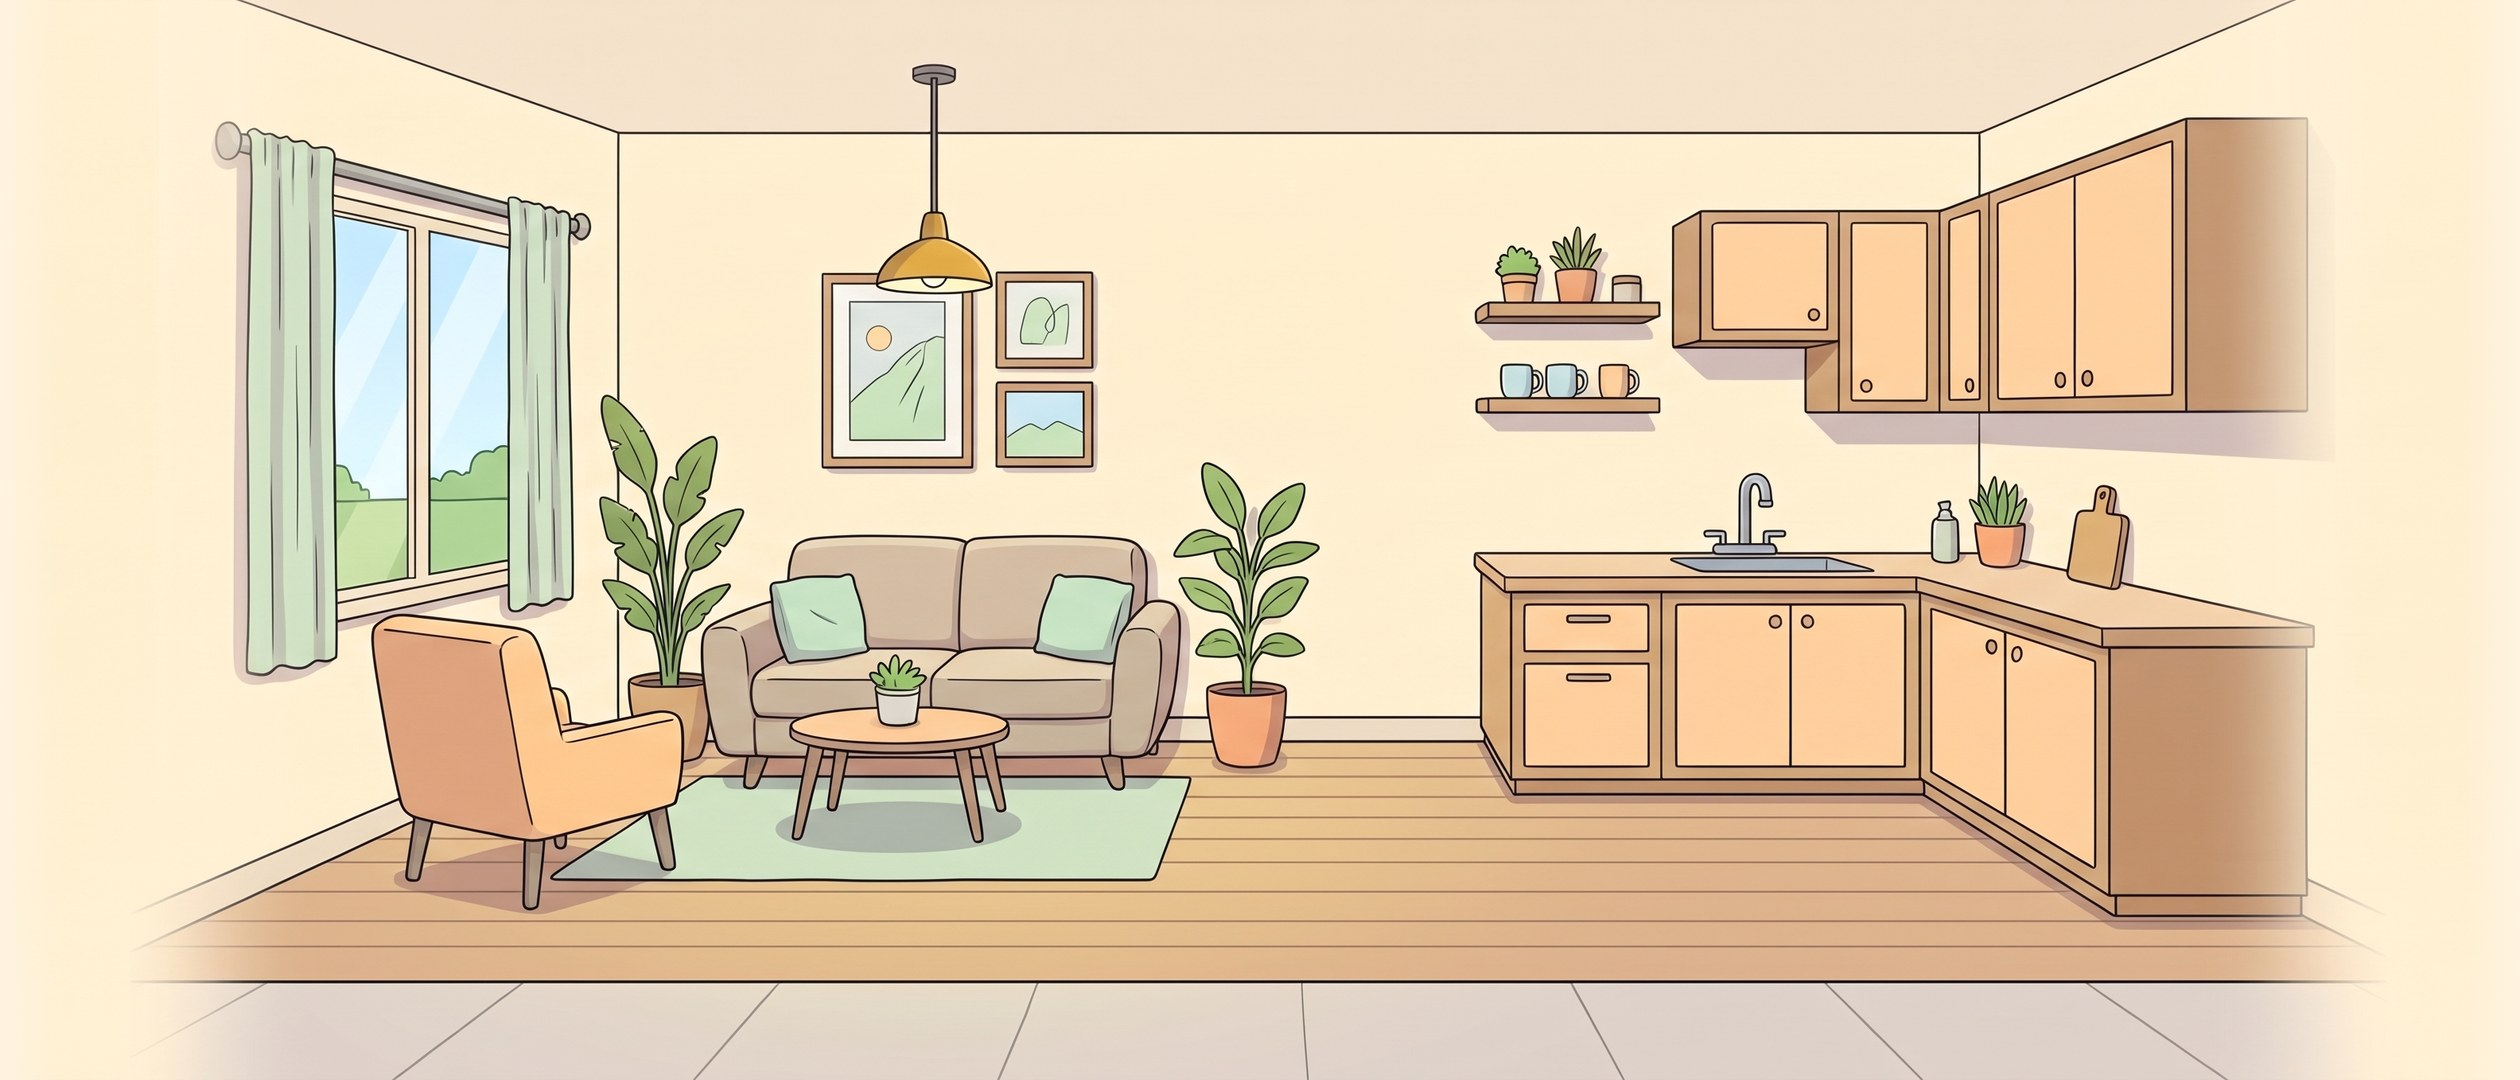
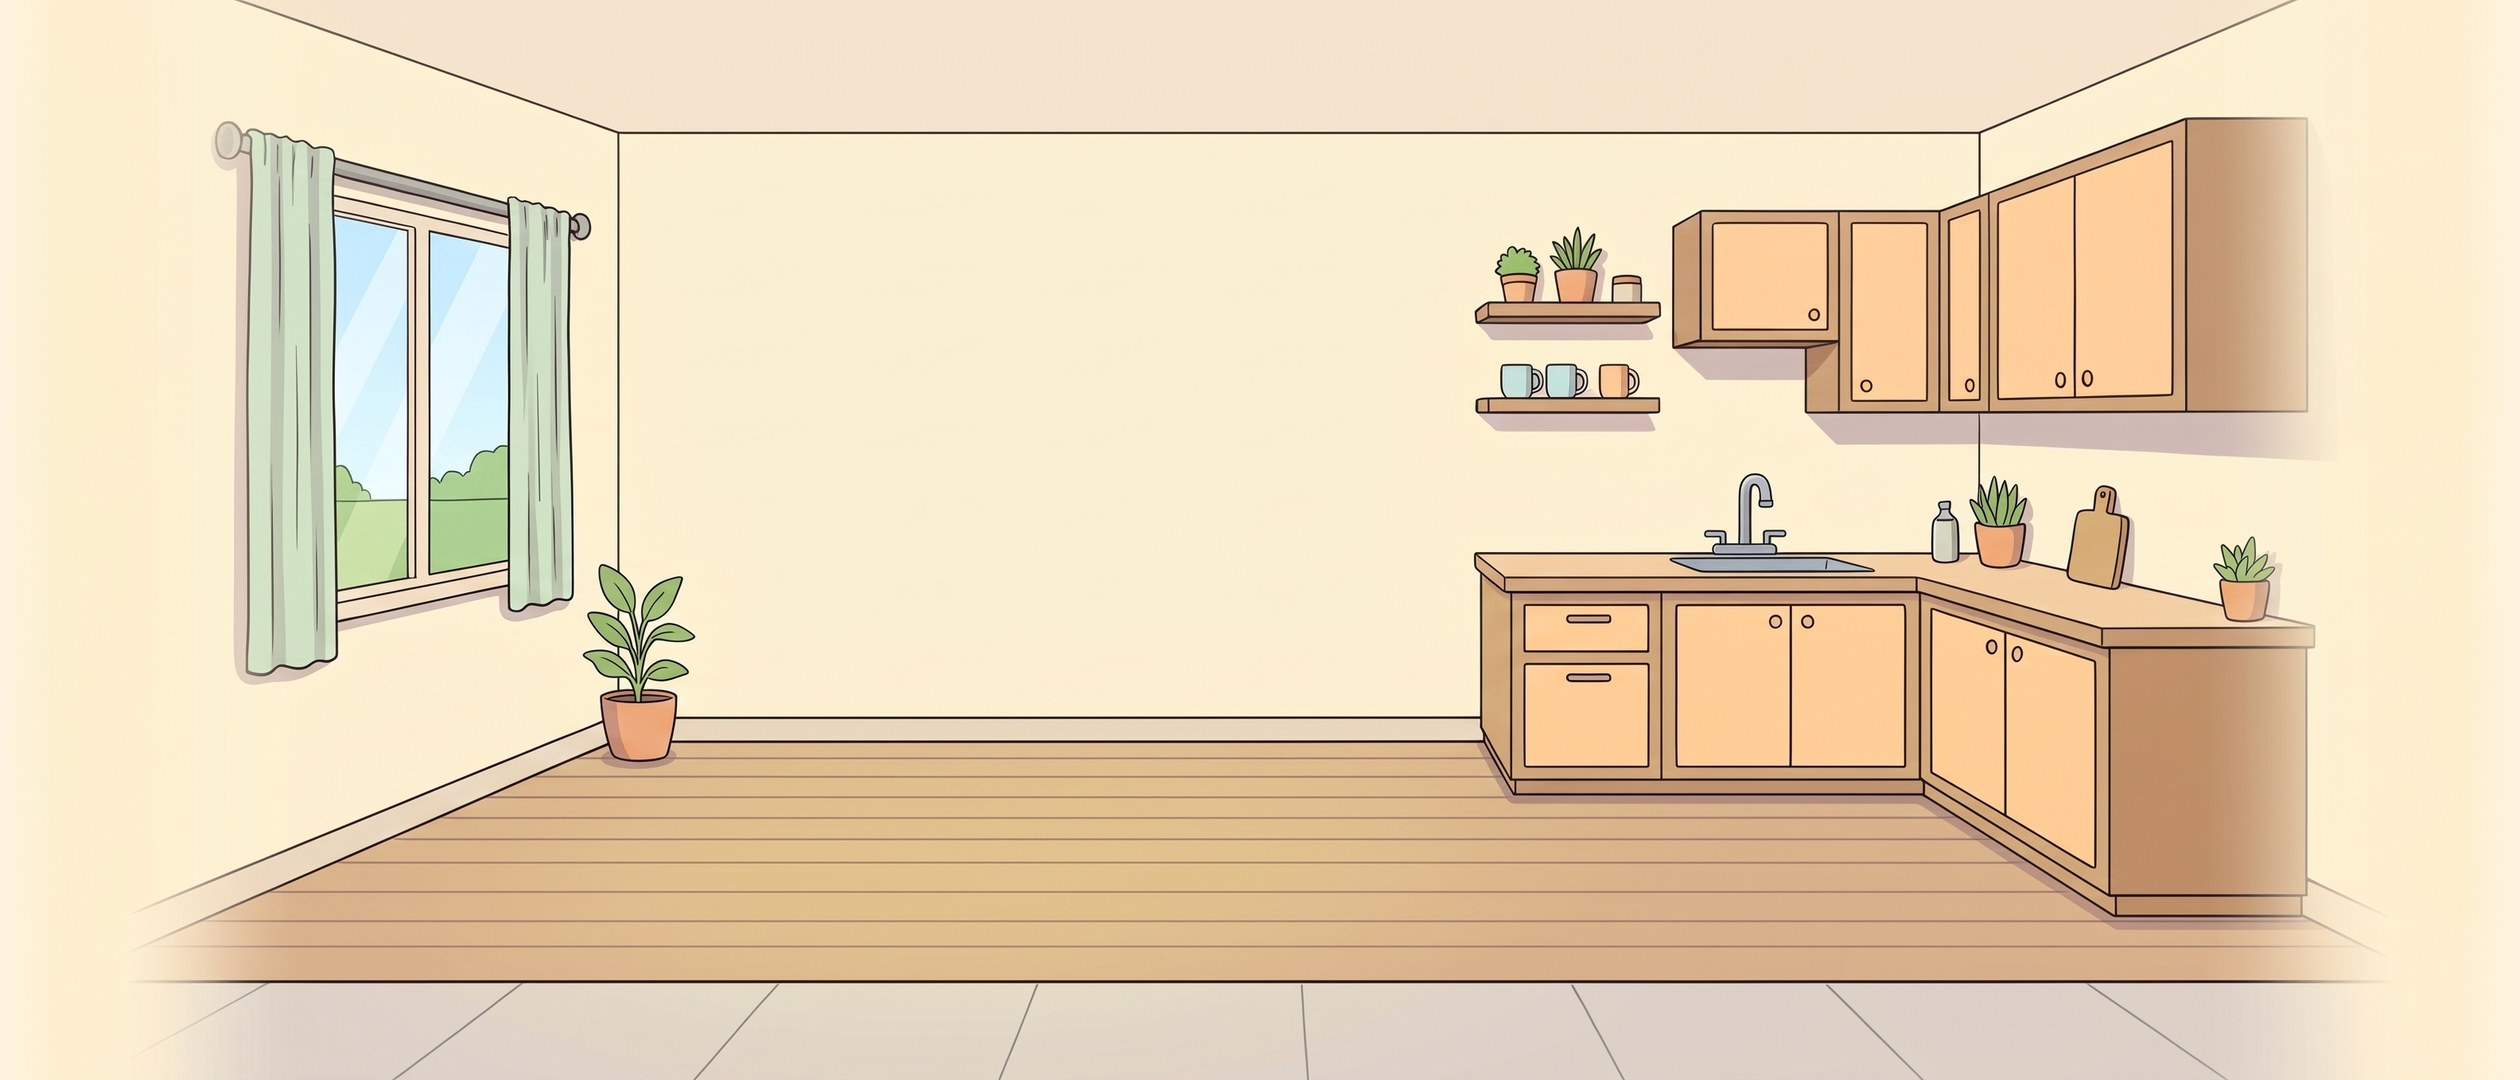
Regenerate t2_c, t3_a, t4_c backgrounds with empty centre
Claude-Session: https://claude.ai/code/session_01KrbBj8WGS3ZAeF2uCMmBCC

diff --git a/docs/PENNY_LOGICS_RULES.md b/docs/PENNY_LOGICS_RULES.md
@@ -292,7 +292,7 @@ HyperFrames (heygen-com/hyperframes) berlisensi Apache 2.0. Idenya ditulis ulang
 ## 10. Status per video
 **Video 01** (How Credit Card Companies Make Money Off You): kode `src/video01/` (rebuild V2, commit 3899ae4, render V1-Full oleh Antigravity 30 Okt).
 - Revisi tercatat 31 Okt (belum dikerjakan): sting Penny Logics setelah Hook (post hook 0.4 → 1.6); hapus kartu judul (pre = 0, titleAudio kosong, TitleCard dimatikan di ChapterShell1, ducking musik disesuaikan); susun ulang dengan World/CameraPath/Carry; durasi sekitar 4:54, chapter dan .srt dihitung ulang.
-**Video 01: latar panorama (16 potongan, SUDAH digenerate 31 Okt, ada di `public/v1/bg/`).** Dibuat di Gemini (akun genshin impacto) dengan prompt di bawah; hasil diubah ke 2520x1080 dengan tepi kiri/kanan memudar ke krem. Catatan: t2_c punya sofa di tengah, t3_a dan t4_c sedikit berperspektif; t2_a dan t4_a sengaja kosong di kiri; papan menu hook_a sudah dikosongkan.
+**Video 01: latar panorama (16 potongan, SUDAH digenerate 31 Okt, ada di `public/v1/bg/`).** Dibuat di Gemini (akun genshin impacto) dengan prompt di bawah; hasil diubah ke 2520x1080 dengan tepi kiri/kanan memudar ke krem. Catatan: t2_c, t3_a, t4_c sudah diulang (tengah dikosongkan; t3_a lantainya masih sedikit berperspektif, belum bisa diulang karena batas harian Gemini); t2_a dan t4_a sengaja kosong di kiri; papan menu hook_a sudah dikosongkan.
 Cara pakai di kit: `bg: {stops: [...], images: [{src: 'v1/bg/t1_a.jpg', x: 0, w: 2600}, {src: 'v1/bg/t1_b.jpg', x: 2500, w: 2600}, ...]}`. Potongan bersebelahan saling tumpang 100–150 px dan ujungnya menyatu otomatis (fade). Kit memberi wash terang 22% + blur 1.6 px. Simpan file di `public/v1/bg/`.
 
 **Gaya untuk SEMUA potongan (tempel di awal setiap prompt Gemini; lampirkan `public/v1/bg_cafe.jpg` sebagai referensi gaya):**
